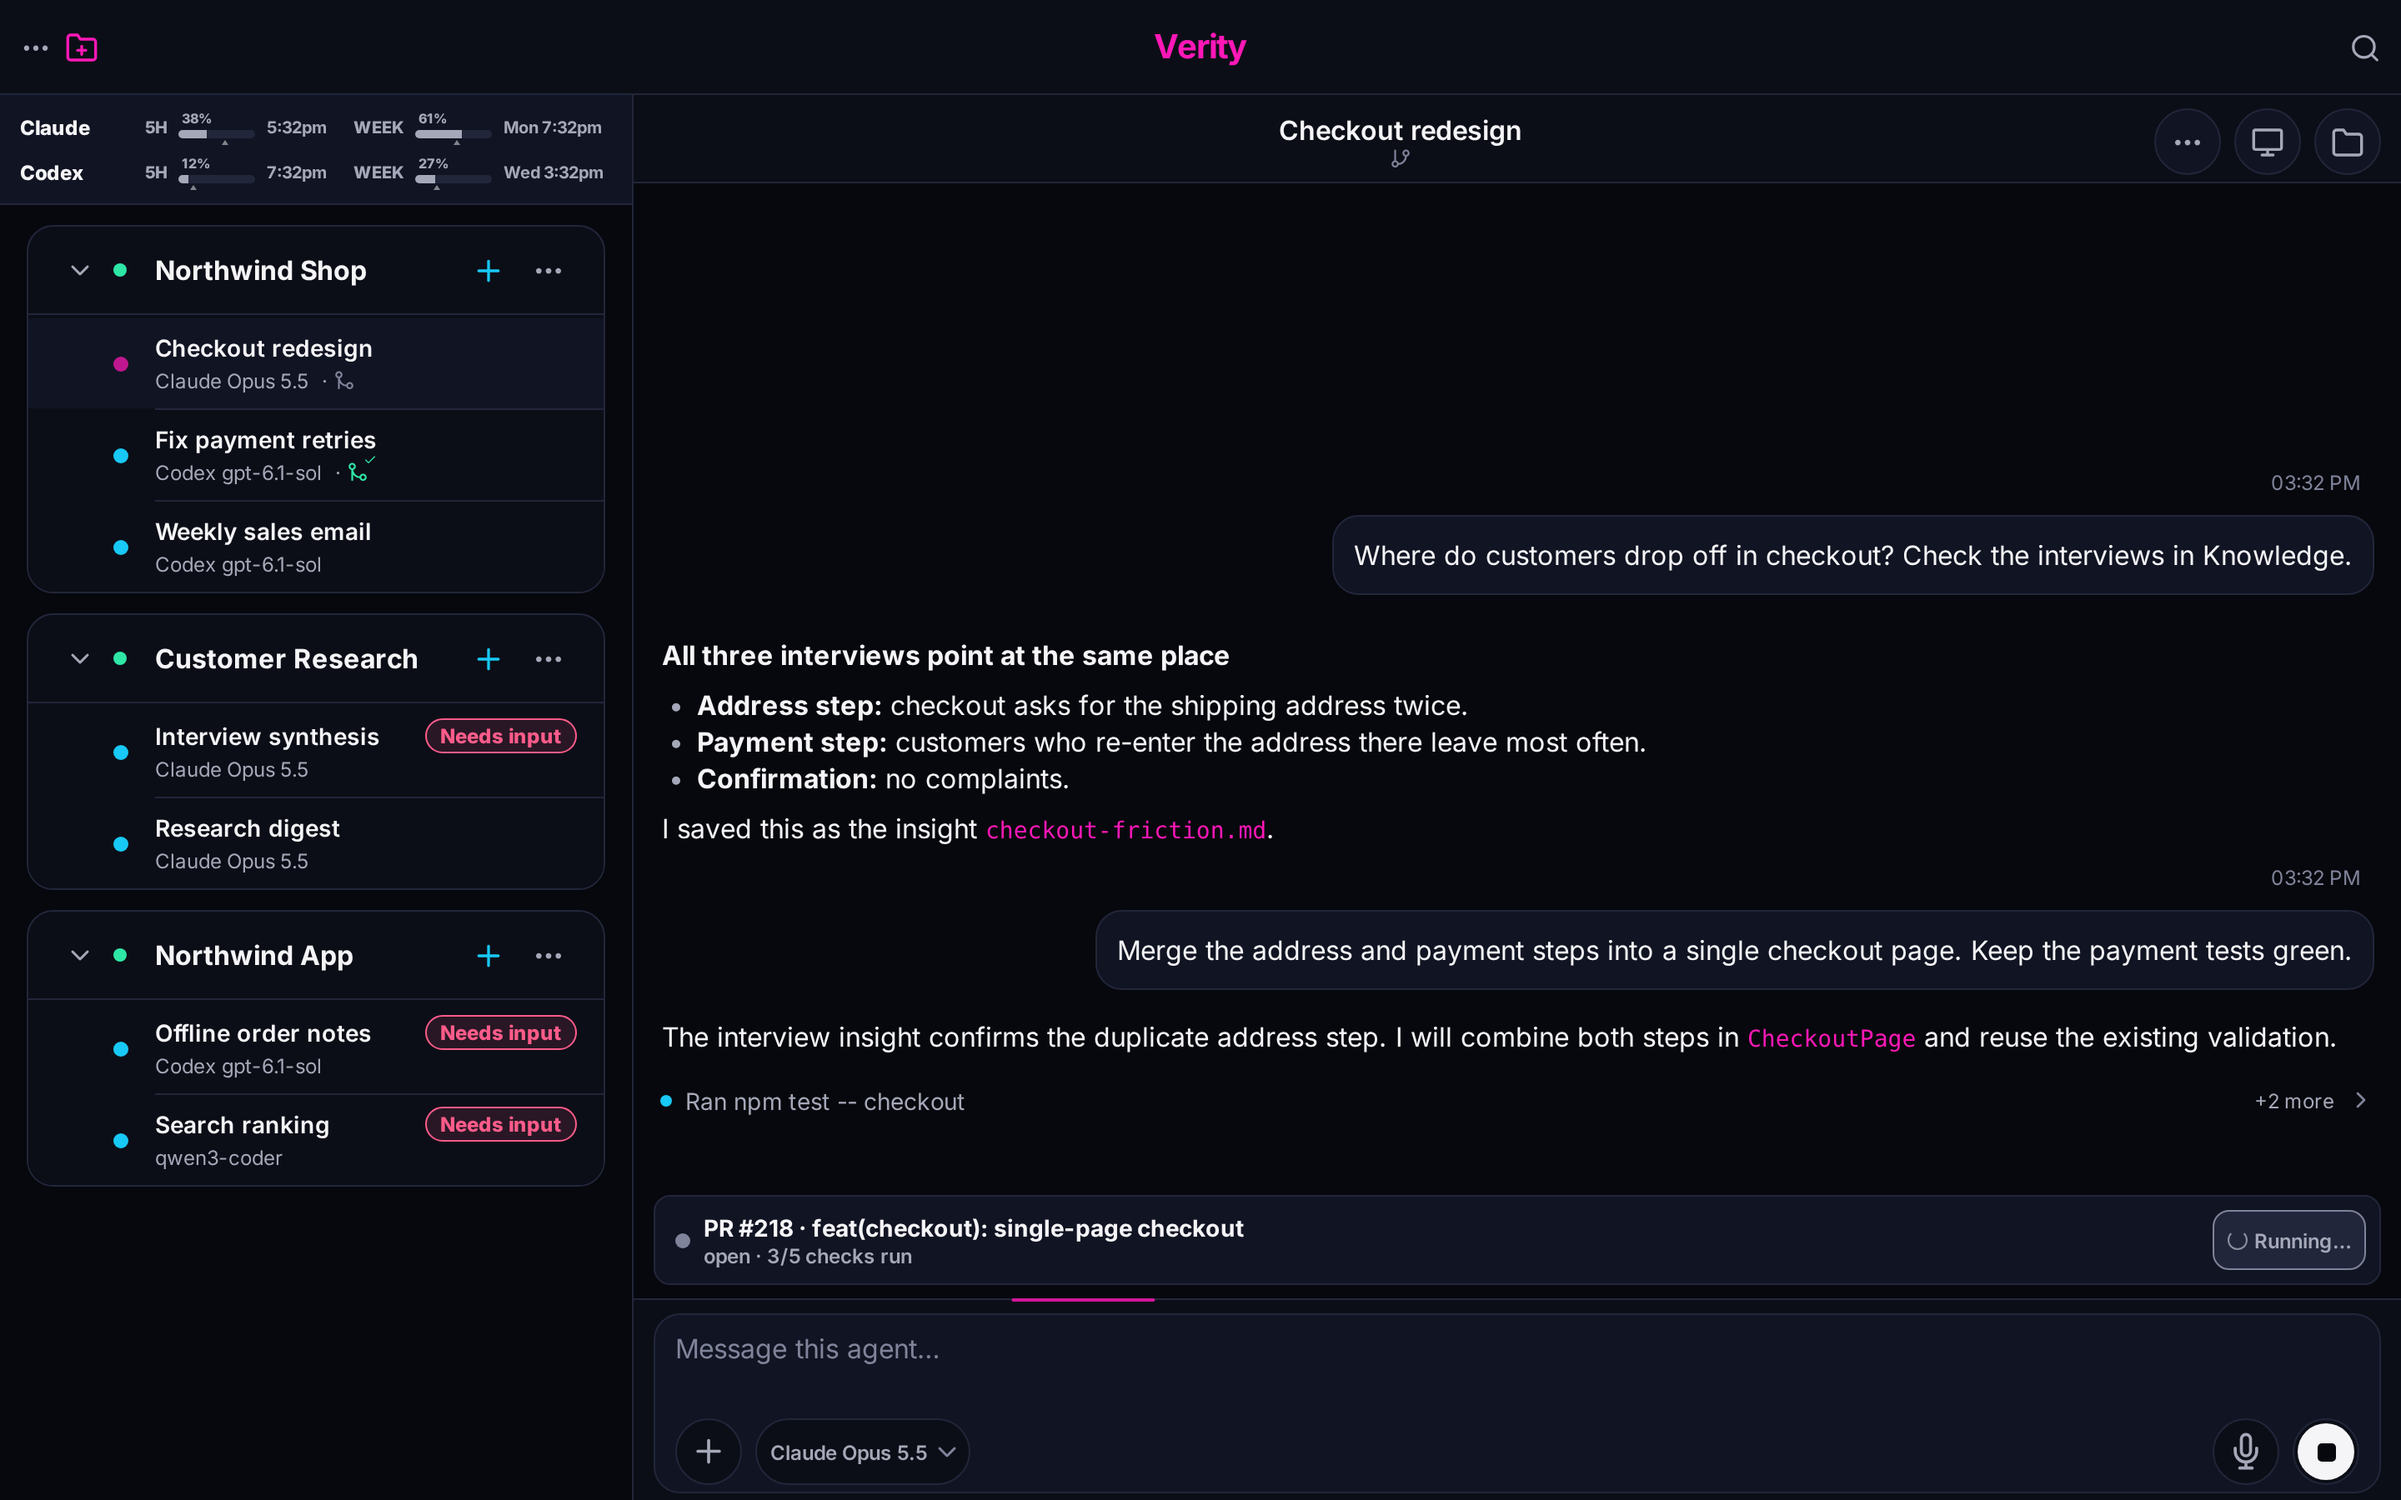
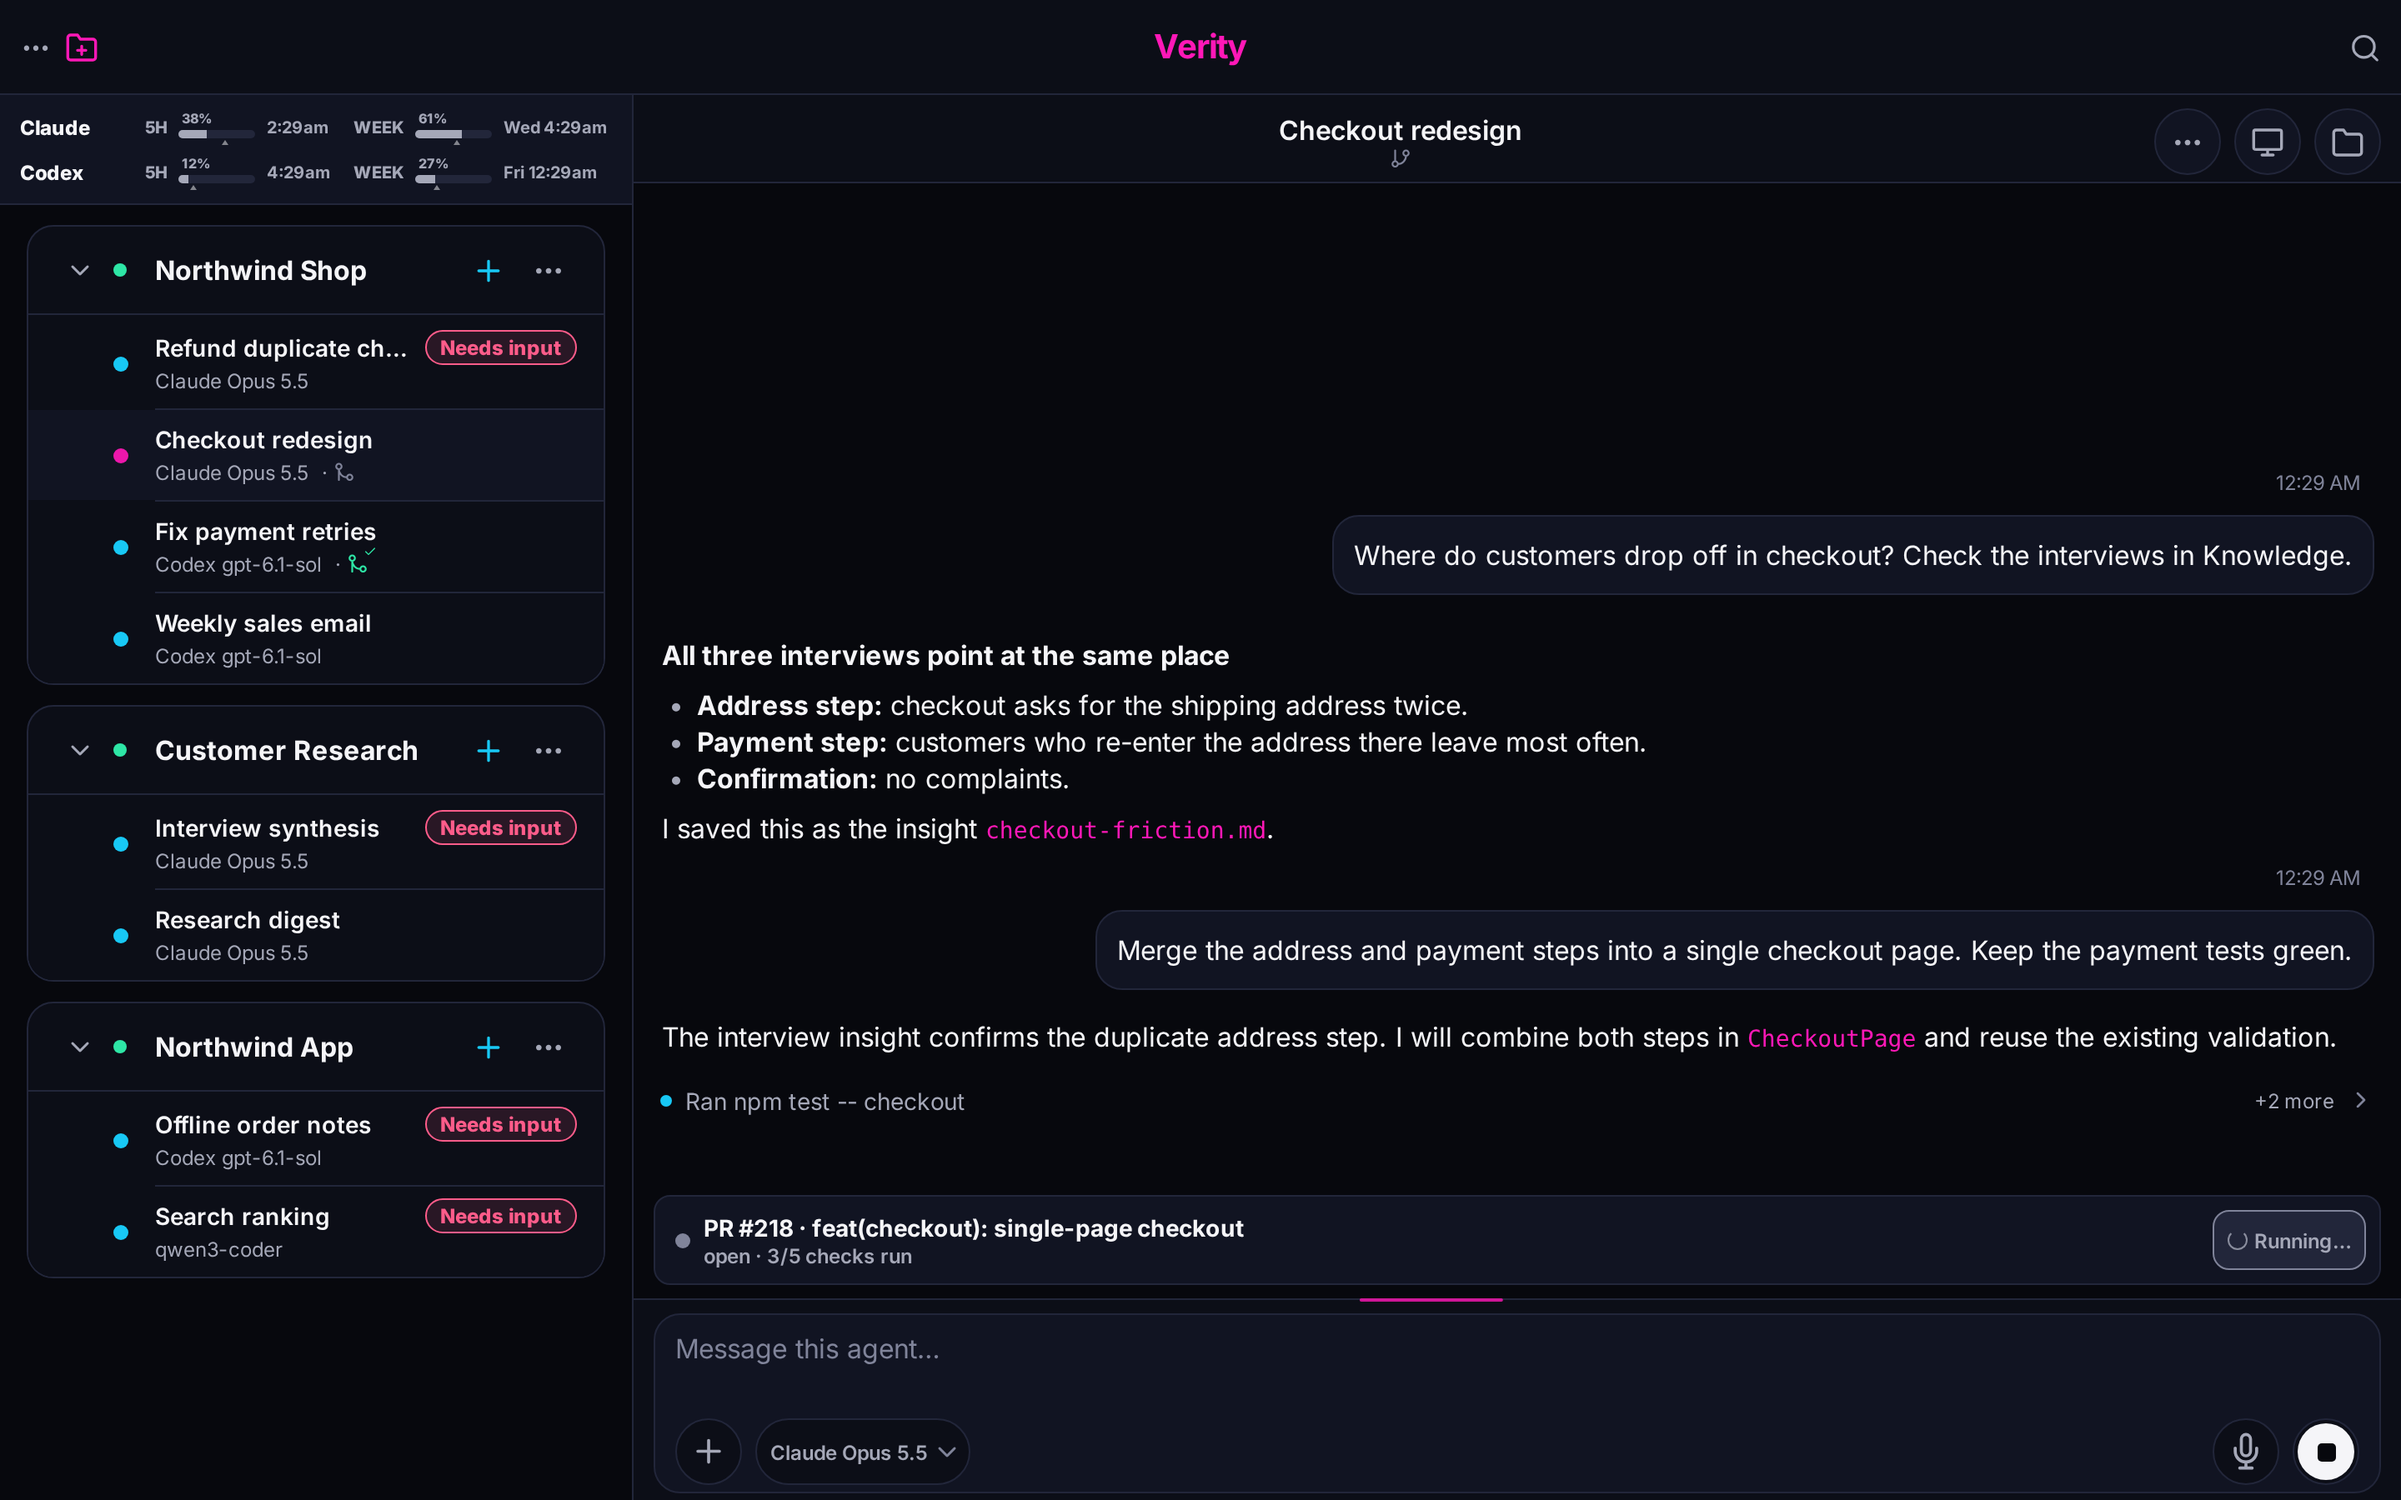
feat(website): render a brokered secret approval and hero crops from the app
The showcase gains a session in which the agent asks to use a project
secret through the broker, so the website can show a real secret approval
instead of an email approval next to the credential claim. The render
pipeline cuts three more components for the hero: the project list
without the usage meters, the secret approval card, and the recurring
task card. Every website image is re-rendered so the existing screens
include the added session.

diff --git a/apps/mobile/lib/demoShowcase.ts b/apps/mobile/lib/demoShowcase.ts
@@ -221,6 +221,38 @@ export function showcaseSessions(): ShowcaseSession[] {
     },
     {
       projectId: 'showcase-shop',
+      name: 'Refund duplicate charges',
+      model: CLAUDE,
+      branch: 'main',
+      state: 'awaiting_approval',
+      pendingPermission: 'showcase-refund',
+      events: [
+        {
+          t: 'prompt',
+          text: 'Refund the customers who were charged twice last night.',
+        },
+        {
+          t: 'text',
+          delta:
+            "31 charges were duplicated between 19:00 and 21:00. Refunding them calls the payment provider with the project's API key, which needs your approval.",
+        },
+        {
+          t: 'permission',
+          id: 'showcase-refund',
+          tool: 'verity_http_request',
+          riskClass: 'ask',
+          input: {
+            method: 'POST',
+            url: 'https://api.stripe.com/v1/refunds',
+            secretAlias: 'STRIPE_API_KEY',
+            auth: { kind: 'static', header: 'authorization', scheme: 'Bearer' },
+            body: { charge: 'ch_3SKq1xLp2', reason: 'duplicate' },
+          },
+        },
+      ],
+    },
+    {
+      projectId: 'showcase-shop',
       name: 'Weekly sales email',
       model: CODEX,
       branch: 'feat/weekly-sales-email',
